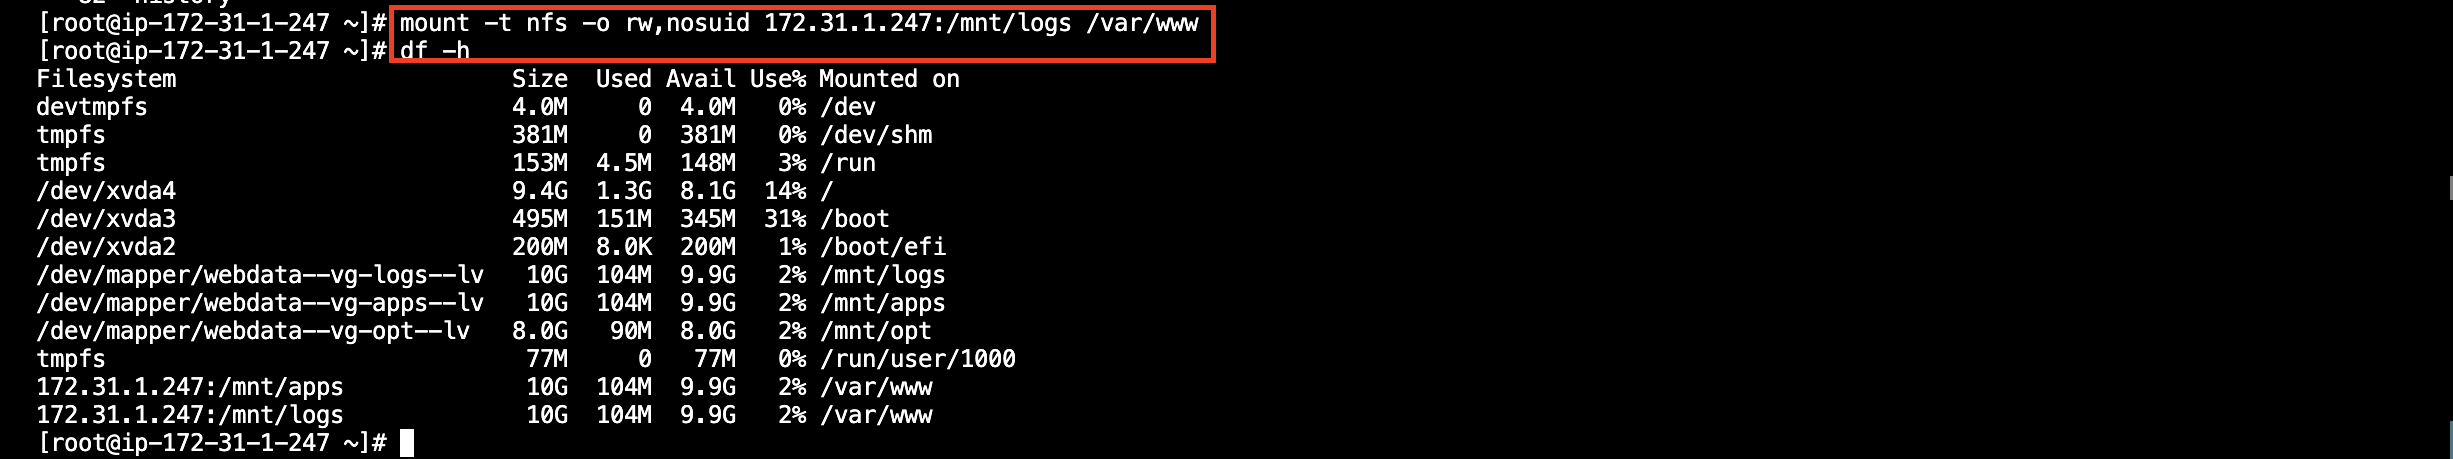
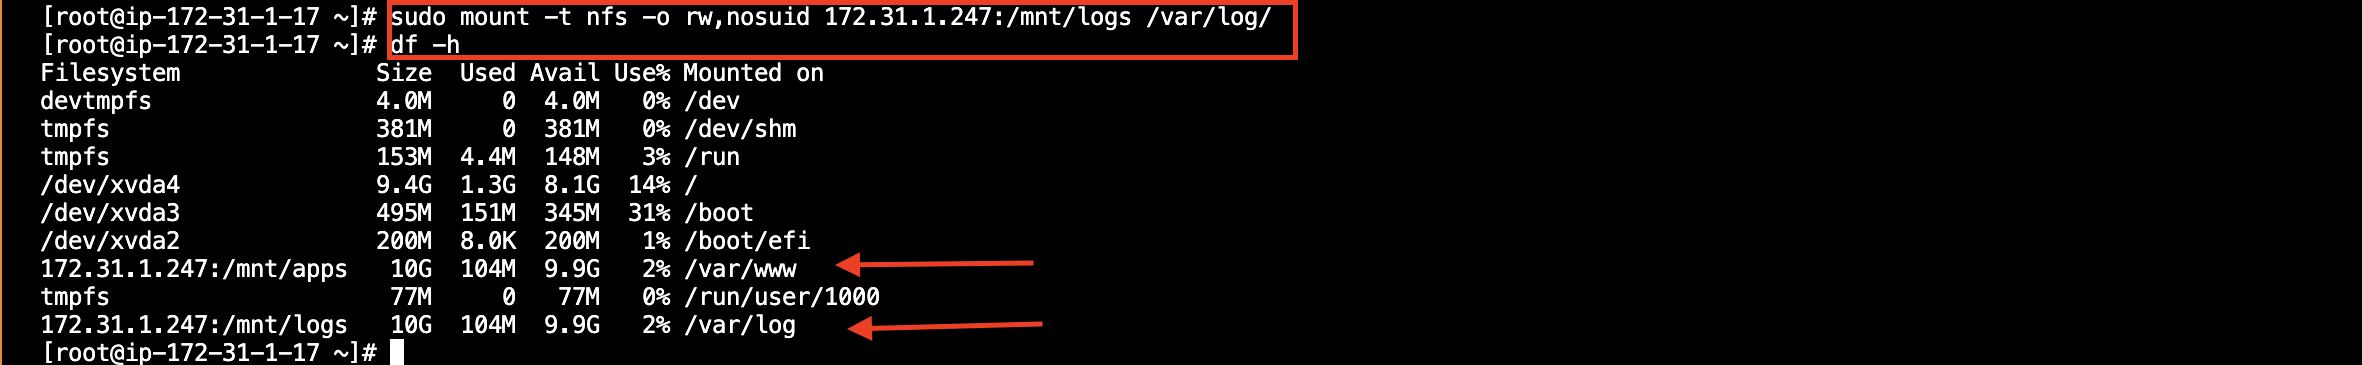
project 8

Changed region(s): [[0.0, 0.0, 0.5563, 1.0], [0.989, 0.9342, 1.0, 1.0], [0.989, 0.3918, 1.0, 0.4219]]

diff --git a/08-devops-tooling-website/README.md b/08-devops-tooling-website/README.md
@@ -118,5 +118,15 @@ setsebool -P httpd_execmem 1
 Jan 04 08:39:35 ip-172-31-1-111.ec2.internal systemd[1]: Starting The PHP FastCGI Process Manager...
 Jan 04 08:39:35 ip-172-31-1-111.ec2.internal systemd[1]: Started The PHP FastCGI Process Manager.
 ```
+6. To confirm that NFS has been mounted properly, the files and directories on the webserver  /var/www should also be on the NFS server /mnt/apps
+![web server](img/12.png)
+![nfs-server](img/13.png)
+
+7. Locate the log folder for Apache on the Web Server and mount it to NFS server’s export for logs, persist the change.
+![mounting](img/14.png)
+![persisting](img/15.png)
+![rebooting](img/16.png)
+
+
 
 
